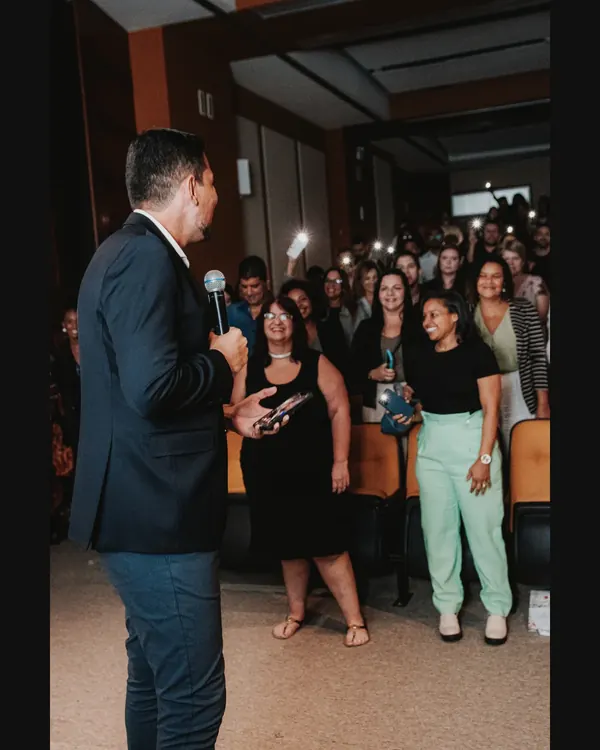
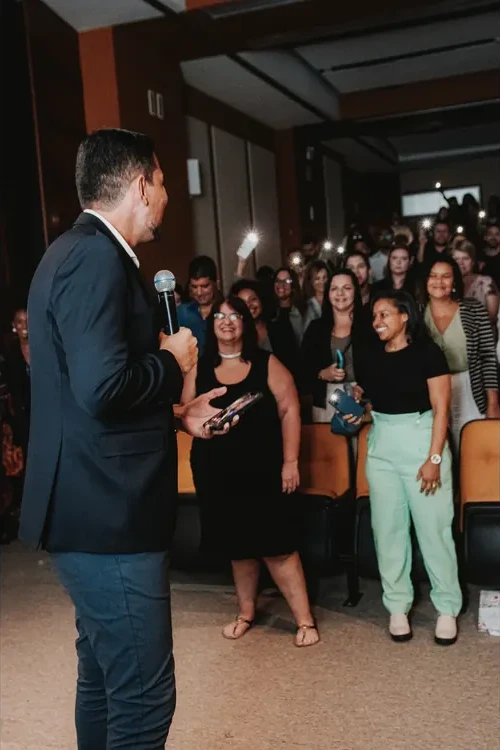
Corrige scroll horizontal mobile, remove sticky CTA e ajusta espaçamentos
- Corta pillarbox lateral em gallery-03/04 e mentor.webp (barras pretas embutidas).
- Remove botão fixo do rodapé no mobile (div, CSS e IntersectionObserver associados).
- Corrige causa raiz do scroll horizontal: section "Showcase" sem overflow-hidden
  deixava glow decorativo de 600px estourar a viewport em mobile; reduz min-width
  do countdown em telas pequenas; adiciona overflow-x:hidden também no body
  (antes só existia no html) como rede de segurança.
- Esconde no mobile o espaçador da seção "conteudo" (só faz sentido no desktop
  ao lado das colunas de texto), removendo vão vazio de 280px antes do card.

diff --git a/index.html b/index.html
@@ -121,6 +121,7 @@
             font-weight: 700; font-style: normal; font-display: swap;
         }
 
+        html, body { max-width: 100%; overflow-x: hidden; }
         html { scrollbar-width: thin; scrollbar-color: #0067b7 #040e11; }
         ::-webkit-scrollbar { width: 10px; }
         ::-webkit-scrollbar-track { background: #040e11; }
@@ -323,8 +324,11 @@
             background: linear-gradient(90deg, transparent, rgba(0,193,253,.2), transparent);
         }
         .timer-unit {
-            min-width: 4.5rem;
+            min-width: 3rem;
             text-align: center;
+        }
+        @media (min-width: 480px) {
+            .timer-unit { min-width: 4.5rem; }
         }
         .timer-sep {
             color: rgba(0,193,253,.25);
@@ -349,12 +353,6 @@
             letter-spacing: 0.06em;
             line-height: 1;
         }
-
-        .sticky-cta {
-            transform: translateY(100%);
-            transition: transform .35s ease;
-        }
-        .sticky-cta.is-visible { transform: translateY(0); }
 
         .icon-orb {
             width: 3.5rem; height: 3.5rem;
@@ -443,7 +441,7 @@
     </header>
 
     <!-- SHOWCASE -->
-    <section class="py-20 md:py-28 relative">
+    <section class="py-20 md:py-28 relative overflow-hidden">
         <div class="absolute top-1/2 left-1/2 -translate-x-1/2 -translate-y-1/2 w-[600px] h-[600px] bg-brand-cyan/5 rounded-full blur-[120px] pointer-events-none"></div>
         <div class="container mx-auto px-6 max-w-content relative z-10 text-center">
             <p class="section-eyebrow" data-aos="fade-up">Diagnóstico</p>
@@ -688,7 +686,7 @@
                     </div>
                 </div>
 
-                <div class="flex justify-center min-h-[280px] sm:min-h-[360px] lg:min-h-[420px]" data-aos="zoom-in"></div>
+                <div class="hidden lg:flex justify-center lg:min-h-[420px]" data-aos="zoom-in"></div>
 
                 <div class="space-y-8 text-left hidden lg:block" data-aos="fade-left">
                     <div>
@@ -853,7 +851,7 @@
 
             <div class="text-center mb-14" data-aos="fade-up">
                 <p class="text-[11px] font-medium uppercase tracking-[0.28em] text-brand-textMuted mb-6">Inscrições encerram em</p>
-                <div class="flex items-end justify-center gap-3 md:gap-5" id="countdown">
+                <div class="flex items-end justify-center gap-1.5 sm:gap-3 md:gap-5" id="countdown">
                     <div class="timer-unit">
                         <span class="timer-digit block" id="cd-days">00</span>
                         <span class="text-[10px] uppercase tracking-[0.2em] text-brand-textMuted mt-2 block">Dias</span>
@@ -1063,13 +1061,6 @@
         </div>
     </footer>
 
-    <!-- STICKY CTA MOBILE -->
-    <div id="sticky-cta" class="sticky-cta fixed bottom-0 left-0 right-0 z-40 md:hidden p-4 bg-brand-bg/95 backdrop-blur-xl border-t border-white/10">
-        <button type="button" onclick="abrirPopup()" class="btn-shimmer btn-gold btn-pill w-full text-xs">
-            Garantir vaga por R$147
-        </button>
-    </div>
-
     <!-- POPUP CAPTURA -->
     <div id="popup-captura" class="popup-captura fixed inset-0 z-[100] hidden items-center justify-center p-4 bg-brand-bg/90 backdrop-blur-xl" aria-hidden="true">
         <div class="absolute top-1/2 left-1/2 -translate-x-1/2 -translate-y-1/2 w-96 h-96 bg-brand-cyan/10 rounded-full blur-[100px] pointer-events-none"></div>
@@ -1177,16 +1168,6 @@
             const wasOpen = item.classList.contains('is-open');
             document.querySelectorAll('.faq-item').forEach(i => i.classList.remove('is-open'));
             if (!wasOpen) item.classList.add('is-open');
-        }
-
-        /* ─── Sticky CTA mobile ─── */
-        const stickyCta = document.getElementById('sticky-cta');
-        const hero = document.getElementById('hero');
-        if (stickyCta && hero) {
-            const obs = new IntersectionObserver(([e]) => {
-                stickyCta.classList.toggle('is-visible', !e.isIntersecting);
-            }, { threshold: 0 });
-            obs.observe(hero);
         }
 
         /* ─── Popup ─── */
